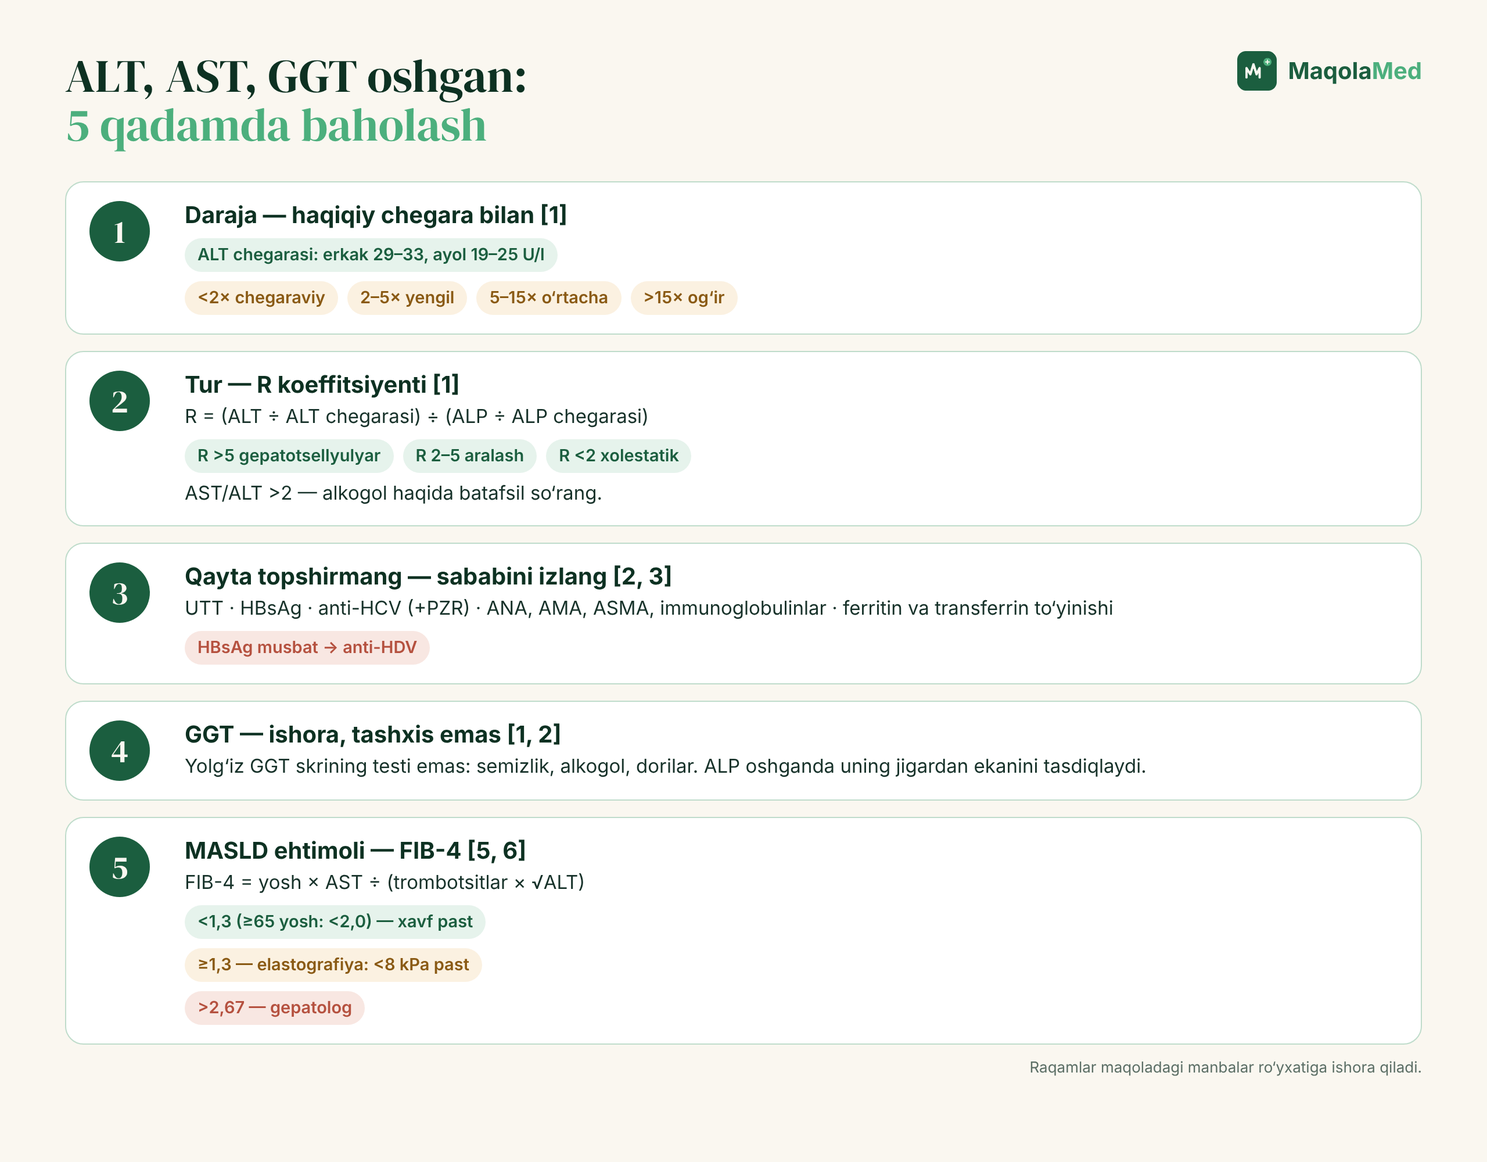
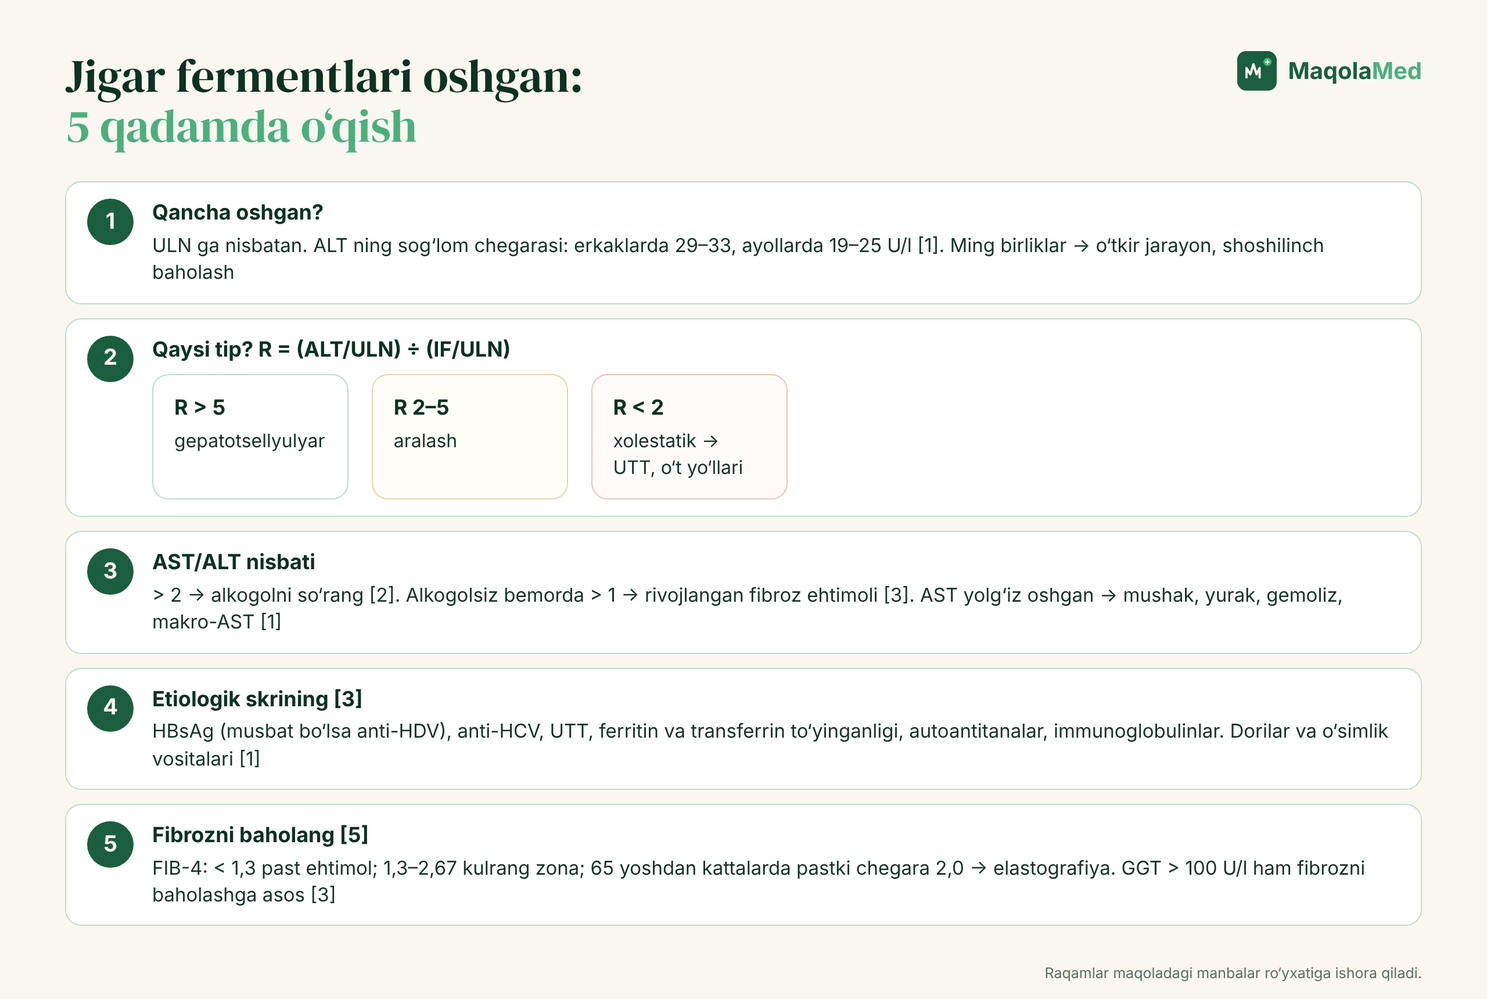
27-noyabr maqolasi qayta yozildi (v2, humanizer): ALT, AST, GGT — muqovalar, 2 rasm

diff --git a/_manba/2026-11-27/muqova-instagram-4x5.html b/_manba/2026-11-27/muqova-instagram-4x5.html
@@ -1,0 +1,84 @@
+<!doctype html>
+<html lang="uz">
+<head>
+<meta charset="utf-8"><base href="file:///home/claude/maqolamed-rasmlar/_shablon/">
+<style>
+@font-face{font-family:"DM Serif Display";src:url("fonts/dm-serif-display-latin-400-normal.woff2") format("woff2");}
+@font-face{font-family:"DM Serif Display";src:url("fonts/dm-serif-display-latin-ext-400-normal.woff2") format("woff2");unicode-range:U+0100-024F,U+1E00-1EFF;}
+:root{
+  --emerald:#1B5E3F; --deep:#0D3122; --cream:#FAF7F0; --mint:#7FC9A0; --green:#4CAF7D;
+}
+*{margin:0;padding:0;box-sizing:border-box}
+html,body{width:1280px;height:720px;overflow:hidden;background:var(--deep)}
+.cover{position:relative;width:1280px;height:720px;overflow:hidden;font-family:"Inter",sans-serif;color:var(--cream);
+  background:
+    radial-gradient(900px 600px at 78% 40%, rgba(76,175,125,.22), transparent 60%),
+    radial-gradient(700px 500px at 0% 100%, rgba(13,49,34,.9), transparent 70%),
+    linear-gradient(135deg,#123F2C 0%, #1B5E3F 55%, #164D34 100%);}
+.grid{position:absolute;inset:0;background-image:
+    linear-gradient(rgba(250,247,240,.035) 1px,transparent 1px),
+    linear-gradient(90deg,rgba(250,247,240,.035) 1px,transparent 1px);
+  background-size:40px 40px;}
+.ekg{position:absolute;left:0;top:300px;width:1280px;height:200px;opacity:.16}
+.left{position:absolute;left:64px;top:52px;width:690px}
+.brand{display:flex;align-items:center;gap:28px}
+.brand img{height:62px;display:block}
+.tag{display:flex;align-items:center;gap:14px;font-size:13px;letter-spacing:.32em;color:rgba(250,247,240,.72);font-weight:500}
+.tag i{width:4px;height:4px;border-radius:50%;background:var(--mint);display:inline-block}
+.tag .line{width:90px;height:1px;background:rgba(250,247,240,.35)}
+.kicker{margin-top:54px;display:inline-flex;align-items:center;gap:10px;font-size:15px;font-weight:600;letter-spacing:.14em;text-transform:uppercase;color:var(--mint)}
+.kicker span{display:inline-block;width:28px;height:2px;background:var(--mint)}
+h1{margin-top:16px;font-family:"DM Serif Display",serif;font-weight:400;font-size:78px;line-height:.98;letter-spacing:-.01em;color:var(--cream)}
+h1 em{font-style:normal;color:var(--mint)}
+.sub{margin-top:22px;font-size:21px;color:rgba(250,247,240,.82);font-weight:400}
+.points{position:absolute;left:64px;bottom:50px;display:flex;gap:0}
+.pt{width:172px;padding-right:18px;display:flex;flex-direction:column;align-items:flex-start;gap:12px}
+.pt + .pt{padding-left:22px;border-left:1px solid rgba(250,247,240,.18)}
+.ic{width:52px;height:52px;border-radius:50%;border:1.6px solid rgba(250,247,240,.75);display:grid;place-items:center}
+.ic svg{width:26px;height:26px;stroke:var(--cream);fill:none;stroke-width:1.7;stroke-linecap:round;stroke-linejoin:round}
+.pt p{font-size:15px;line-height:1.3;color:rgba(250,247,240,.92);font-weight:500}
+.card{position:absolute;right:56px;top:96px;width:400px;border-radius:22px;padding:28px 30px 26px;
+  background:linear-gradient(160deg,rgba(13,49,34,.82),rgba(13,49,34,.62));
+  border:1px solid rgba(127,201,160,.35);box-shadow:0 30px 60px rgba(0,0,0,.35)}
+.card .ch{display:flex;justify-content:space-between;align-items:center}
+.card .lbl{font-size:12px;letter-spacing:.24em;font-weight:600;color:var(--mint)}
+.card .pill{font-size:12px;font-weight:600;padding:5px 10px;border-radius:999px;background:rgba(127,201,160,.16);color:var(--mint)}
+.card h3{margin-top:14px;font-size:22px;font-weight:600}
+.card h3 small{display:block;margin-top:4px;font-size:14px;font-weight:400;color:rgba(250,247,240,.65)}
+.rows{margin-top:18px;border-top:1px solid rgba(250,247,240,.14)}
+.row{display:flex;justify-content:space-between;padding:9px 0;border-bottom:1px solid rgba(250,247,240,.10);font-size:16px}
+.row span:first-child{color:rgba(250,247,240,.68)}
+.row span:last-child{font-weight:600;font-variant-numeric:tabular-nums}
+.row .ok{color:var(--mint)}
+.quote{margin-top:18px;font-family:"DM Serif Display",serif;font-size:21px;line-height:1.25;color:var(--cream)}
+.ask{margin-top:16px;display:flex;align-items:center;justify-content:space-between;padding:13px 16px;border-radius:12px;background:var(--green);color:#0D3122;font-weight:700;font-size:17px}
+.ask svg{width:22px;height:22px;stroke:#0D3122;fill:none;stroke-width:2.2;stroke-linecap:round;stroke-linejoin:round}
+
+html,body{width:1080px;height:1350px}
+.cover{width:1080px;height:1350px}
+.ekg{top:525px;width:1080px}
+.left{left:72px;top:64px;width:940px}
+.brand img{height:72px}
+h1{font-size:96px;margin-top:18px}
+.kicker{margin-top:56px;font-size:17px}
+.sub{font-size:24px}
+.card{left:72px;right:72px;top:auto;bottom:250px;width:auto;padding:30px 34px}
+.rows{display:grid;grid-template-columns:1fr 1fr;column-gap:40px}
+.quote{font-size:24px}
+.points{left:72px;right:72px;bottom:60px}
+.pt{width:auto;flex:1}
+.pt p{font-size:17px}
+
+</style>
+</head>
+<body><div class="cover"><div class="grid"></div>
+<svg class="ekg" viewBox="0 0 1280 200" preserveAspectRatio="none"><polyline fill="none" stroke="#7FC9A0" stroke-width="3" stroke-linejoin="round" stroke-linecap="round" points="0,120 640,120 670,120 690,98 710,120 750,120 770,40 795,175 820,120 880,120 905,102 930,120 1280,120"/></svg>
+<div class="left"><div class="brand"><img src="logo_dark_bg.png" alt="MaqolaMed"></div>
+<div class="tag" style="margin-top:22px"><span>ILM</span><i></i><span>AMALIYOT</span><i></i><span>ODAM UCHUN</span><span class="line"></span></div>
+<div class="kicker"><span></span>Tahlil o‘qish · Gastroenterologiya</div>
+<h1>ALT, AST, GGT<br>oshgan:<br><em>qanday o‘qiymiz?</em></h1>
+<div class="sub">Daraja, tip, nisbat va sabab: 5 qadamda.</div></div>
+<div class="points"><div class="pt"><div class="ic"><svg viewBox="0 0 24 24"><path d="M4 20V4"/><path d="M4 20h16"/><path d="M8 16l4-5 3 3 5-7"/></svg></div><p>Me’yor qayerda tugaydi?</p></div><div class="pt"><div class="ic"><svg viewBox="0 0 24 24"><circle cx="12" cy="12" r="9"/><path d="M9.5 9.5a2.5 2.5 0 1 1 3.5 2.3c-.7.3-1 .8-1 1.5v.7"/><path d="M12 17v.5"/></svg></div><p>R koeffitsiyenti nima beradi?</p></div><div class="pt"><div class="ic"><svg viewBox="0 0 24 24"><path d="M9 3h6"/><path d="M10 3v12.5a2 2 0 0 0 4 0V3"/><path d="M10 10h4"/><path d="M5 21h14"/></svg></div><p>GGT yolg‘iz nimani aytadi?</p></div><div class="pt"><div class="ic"><svg viewBox="0 0 24 24"><path d="M3 10c0-3 3-5 8-5h7c2 0 3 1.5 3 3 0 4-6 11-11 11-4 0-7-4-7-9z"/></svg></div><p>Fibrozni qanday baholaymiz?</p></div></div>
+<div class="card"><div class="ch"><span class="lbl">TAHLIL</span><span class="pill">5 qadam</span></div>
+<h3>Jigar fermentlari<small>ACG, BSG va EASL bo‘yicha</small></h3><div class="rows"><div class="row"><span>ALT sog‘lom chegarasi</span><span class="ok">♂ 29–33 · ♀ 19–25</span></div><div class="row"><span>R &gt; 5</span><span class="">gepatotsellyulyar</span></div><div class="row"><span>R &lt; 2</span><span class="">xolestatik</span></div><div class="row"><span>AST/ALT &gt; 2</span><span class="">alkogolni so‘rang</span></div><div class="row"><span>GGT &gt; 100 U/l</span><span class="ok">fibrozni baholang</span></div><div class="row"><span>FIB-4 &lt; 1,3</span><span class="ok">fibroz ehtimoli past</span></div></div><div class="ask">Gepatoprotektor yozasizmi?<svg viewBox="0 0 24 24"><path d="M5 12h14"/><path d="M13 6l6 6-6 6"/></svg></div></div>
+</div></body></html>

diff --git a/_manba/2026-11-27/muqova-16x9.html b/_manba/2026-11-27/muqova-16x9.html
@@ -1,0 +1,69 @@
+<!doctype html>
+<html lang="uz">
+<head>
+<meta charset="utf-8"><base href="file:///home/claude/maqolamed-rasmlar/_shablon/">
+<style>
+@font-face{font-family:"DM Serif Display";src:url("fonts/dm-serif-display-latin-400-normal.woff2") format("woff2");}
+@font-face{font-family:"DM Serif Display";src:url("fonts/dm-serif-display-latin-ext-400-normal.woff2") format("woff2");unicode-range:U+0100-024F,U+1E00-1EFF;}
+:root{
+  --emerald:#1B5E3F; --deep:#0D3122; --cream:#FAF7F0; --mint:#7FC9A0; --green:#4CAF7D;
+}
+*{margin:0;padding:0;box-sizing:border-box}
+html,body{width:1280px;height:720px;overflow:hidden;background:var(--deep)}
+.cover{position:relative;width:1280px;height:720px;overflow:hidden;font-family:"Inter",sans-serif;color:var(--cream);
+  background:
+    radial-gradient(900px 600px at 78% 40%, rgba(76,175,125,.22), transparent 60%),
+    radial-gradient(700px 500px at 0% 100%, rgba(13,49,34,.9), transparent 70%),
+    linear-gradient(135deg,#123F2C 0%, #1B5E3F 55%, #164D34 100%);}
+.grid{position:absolute;inset:0;background-image:
+    linear-gradient(rgba(250,247,240,.035) 1px,transparent 1px),
+    linear-gradient(90deg,rgba(250,247,240,.035) 1px,transparent 1px);
+  background-size:40px 40px;}
+.ekg{position:absolute;left:0;top:300px;width:1280px;height:200px;opacity:.16}
+.left{position:absolute;left:64px;top:52px;width:690px}
+.brand{display:flex;align-items:center;gap:28px}
+.brand img{height:62px;display:block}
+.tag{display:flex;align-items:center;gap:14px;font-size:13px;letter-spacing:.32em;color:rgba(250,247,240,.72);font-weight:500}
+.tag i{width:4px;height:4px;border-radius:50%;background:var(--mint);display:inline-block}
+.tag .line{width:90px;height:1px;background:rgba(250,247,240,.35)}
+.kicker{margin-top:54px;display:inline-flex;align-items:center;gap:10px;font-size:15px;font-weight:600;letter-spacing:.14em;text-transform:uppercase;color:var(--mint)}
+.kicker span{display:inline-block;width:28px;height:2px;background:var(--mint)}
+h1{margin-top:16px;font-family:"DM Serif Display",serif;font-weight:400;font-size:78px;line-height:.98;letter-spacing:-.01em;color:var(--cream)}
+h1 em{font-style:normal;color:var(--mint)}
+.sub{margin-top:22px;font-size:21px;color:rgba(250,247,240,.82);font-weight:400}
+.points{position:absolute;left:64px;bottom:50px;display:flex;gap:0}
+.pt{width:172px;padding-right:18px;display:flex;flex-direction:column;align-items:flex-start;gap:12px}
+.pt + .pt{padding-left:22px;border-left:1px solid rgba(250,247,240,.18)}
+.ic{width:52px;height:52px;border-radius:50%;border:1.6px solid rgba(250,247,240,.75);display:grid;place-items:center}
+.ic svg{width:26px;height:26px;stroke:var(--cream);fill:none;stroke-width:1.7;stroke-linecap:round;stroke-linejoin:round}
+.pt p{font-size:15px;line-height:1.3;color:rgba(250,247,240,.92);font-weight:500}
+.card{position:absolute;right:56px;top:96px;width:400px;border-radius:22px;padding:28px 30px 26px;
+  background:linear-gradient(160deg,rgba(13,49,34,.82),rgba(13,49,34,.62));
+  border:1px solid rgba(127,201,160,.35);box-shadow:0 30px 60px rgba(0,0,0,.35)}
+.card .ch{display:flex;justify-content:space-between;align-items:center}
+.card .lbl{font-size:12px;letter-spacing:.24em;font-weight:600;color:var(--mint)}
+.card .pill{font-size:12px;font-weight:600;padding:5px 10px;border-radius:999px;background:rgba(127,201,160,.16);color:var(--mint)}
+.card h3{margin-top:14px;font-size:22px;font-weight:600}
+.card h3 small{display:block;margin-top:4px;font-size:14px;font-weight:400;color:rgba(250,247,240,.65)}
+.rows{margin-top:18px;border-top:1px solid rgba(250,247,240,.14)}
+.row{display:flex;justify-content:space-between;padding:9px 0;border-bottom:1px solid rgba(250,247,240,.10);font-size:16px}
+.row span:first-child{color:rgba(250,247,240,.68)}
+.row span:last-child{font-weight:600;font-variant-numeric:tabular-nums}
+.row .ok{color:var(--mint)}
+.quote{margin-top:18px;font-family:"DM Serif Display",serif;font-size:21px;line-height:1.25;color:var(--cream)}
+.ask{margin-top:16px;display:flex;align-items:center;justify-content:space-between;padding:13px 16px;border-radius:12px;background:var(--green);color:#0D3122;font-weight:700;font-size:17px}
+.ask svg{width:22px;height:22px;stroke:#0D3122;fill:none;stroke-width:2.2;stroke-linecap:round;stroke-linejoin:round}
+
+</style>
+</head>
+<body><div class="cover"><div class="grid"></div>
+<svg class="ekg" viewBox="0 0 1280 200" preserveAspectRatio="none"><polyline fill="none" stroke="#7FC9A0" stroke-width="3" stroke-linejoin="round" stroke-linecap="round" points="0,120 640,120 670,120 690,98 710,120 750,120 770,40 795,175 820,120 880,120 905,102 930,120 1280,120"/></svg>
+<div class="left"><div class="brand"><img src="logo_dark_bg.png" alt="MaqolaMed"></div>
+<div class="tag" style="margin-top:22px"><span>ILM</span><i></i><span>AMALIYOT</span><i></i><span>ODAM UCHUN</span><span class="line"></span></div>
+<div class="kicker"><span></span>Tahlil o‘qish · Gastroenterologiya</div>
+<h1>ALT, AST, GGT<br>oshgan:<br><em>qanday o‘qiymiz?</em></h1>
+<div class="sub">Daraja, tip, nisbat va sabab: 5 qadamda.</div></div>
+<div class="points"><div class="pt"><div class="ic"><svg viewBox="0 0 24 24"><path d="M4 20V4"/><path d="M4 20h16"/><path d="M8 16l4-5 3 3 5-7"/></svg></div><p>Me’yor qayerda tugaydi?</p></div><div class="pt"><div class="ic"><svg viewBox="0 0 24 24"><circle cx="12" cy="12" r="9"/><path d="M9.5 9.5a2.5 2.5 0 1 1 3.5 2.3c-.7.3-1 .8-1 1.5v.7"/><path d="M12 17v.5"/></svg></div><p>R koeffitsiyenti nima beradi?</p></div><div class="pt"><div class="ic"><svg viewBox="0 0 24 24"><path d="M9 3h6"/><path d="M10 3v12.5a2 2 0 0 0 4 0V3"/><path d="M10 10h4"/><path d="M5 21h14"/></svg></div><p>GGT yolg‘iz nimani aytadi?</p></div><div class="pt"><div class="ic"><svg viewBox="0 0 24 24"><path d="M3 10c0-3 3-5 8-5h7c2 0 3 1.5 3 3 0 4-6 11-11 11-4 0-7-4-7-9z"/></svg></div><p>Fibrozni qanday baholaymiz?</p></div></div>
+<div class="card"><div class="ch"><span class="lbl">TAHLIL</span><span class="pill">5 qadam</span></div>
+<h3>Jigar fermentlari<small>ACG, BSG va EASL bo‘yicha</small></h3><div class="rows"><div class="row"><span>ALT sog‘lom chegarasi</span><span class="ok">♂ 29–33 · ♀ 19–25</span></div><div class="row"><span>R &gt; 5</span><span class="">gepatotsellyulyar</span></div><div class="row"><span>R &lt; 2</span><span class="">xolestatik</span></div><div class="row"><span>AST/ALT &gt; 2</span><span class="">alkogolni so‘rang</span></div><div class="row"><span>GGT &gt; 100 U/l</span><span class="ok">fibrozni baholang</span></div><div class="row"><span>FIB-4 &lt; 1,3</span><span class="ok">fibroz ehtimoli past</span></div></div><div class="ask">Gepatoprotektor yozasizmi?<svg viewBox="0 0 24 24"><path d="M5 12h14"/><path d="M13 6l6 6-6 6"/></svg></div></div>
+</div></body></html>

diff --git a/_manba/2026-11-27/1-rasm.html b/_manba/2026-11-27/1-rasm.html
@@ -1,0 +1,43 @@
+<!doctype html><html lang="uz"><head><meta charset="utf-8"><base href="file:///home/claude/maqolamed-rasmlar/_shablon/"><style>
+@font-face{font-family:"DM Serif Display";src:url("fonts/dm-serif-display-latin-400-normal.woff2") format("woff2");}
+@font-face{font-family:"DM Serif Display";src:url("fonts/dm-serif-display-latin-ext-400-normal.woff2") format("woff2");unicode-range:U+0100-024F,U+1E00-1EFF;}
+:root{--emerald:#1B5E3F;--deep:#0D3122;--cream:#FAF7F0;--mint:#7FC9A0;--green:#4CAF7D;--ink:#17322A;--muted:#5C6F66;--amber:#C98A2E;--amberbg:#FBF1E1;--red:#B5513F;--redbg:#F8E7E2}
+*{margin:0;padding:0;box-sizing:border-box}
+html,body{width:1280px;height:860px;background:var(--cream);overflow:hidden}
+.fig{position:relative;width:1280px;height:860px;padding:44px 56px;font-family:"Inter",sans-serif;color:var(--ink)}
+.top{display:flex;justify-content:space-between;align-items:flex-start;margin-bottom:26px}
+h1{font-family:"DM Serif Display",serif;font-weight:400;font-size:40px;line-height:1.08;color:var(--deep)}
+h1 em{font-style:normal;color:var(--green)}
+.brand{display:flex;align-items:center;gap:10px;font-weight:700;font-size:20px;color:var(--emerald);white-space:nowrap}
+.brand img{height:34px}.brand b{color:var(--green);font-weight:700}
+table{width:100%;border-collapse:separate;border-spacing:0;font-size:17px;line-height:1.35;background:#fff;border-radius:14px;overflow:hidden;border:1.5px solid #BFDCCB}
+th{background:var(--emerald);color:var(--cream);text-align:left;padding:13px 16px;font-size:16px;font-weight:600}
+td{padding:12px 16px;border-top:1px solid #E3EDE7;vertical-align:top}
+td:first-child{font-weight:600;color:var(--deep);width:24%}
+tr:nth-child(even) td{background:#F6FAF7}
+.good{color:var(--emerald);font-weight:600}.bad{color:var(--red);font-weight:600}.mid{color:#8A5A14;font-weight:600}
+.row3{display:flex;gap:20px}
+.box{flex:1;border-radius:14px;padding:16px 18px;font-size:16px;line-height:1.42;background:#fff;border:1.5px solid #BFDCCB}
+.box b.t{display:block;font-size:18px;margin-bottom:6px;color:var(--deep)}
+.box.g{border-color:#BFDCCB}.box.a{border-color:#EBD3A9;background:#FFFDF8}.box.r{border-color:#E8C3BA;background:#FFFBFA}
+.box.dark{background:var(--emerald);color:var(--cream);border:none}.box.dark b.t{color:var(--cream)}
+.step{display:flex;gap:16px;align-items:flex-start;background:#fff;border:1.5px solid #BFDCCB;border-radius:14px;padding:14px 18px;margin-bottom:12px;font-size:16.5px;line-height:1.42}
+.num{flex:none;width:40px;height:40px;border-radius:50%;background:var(--emerald);color:var(--cream);display:grid;place-items:center;font-weight:700;font-size:19px}
+.step b.t{display:block;font-size:18px;color:var(--deep);margin-bottom:3px}
+.tag{display:inline-block;font-size:12.5px;font-weight:700;letter-spacing:.1em;text-transform:uppercase;padding:5px 11px;border-radius:999px;margin-bottom:10px}
+.tg{background:#DDEFE5;color:var(--emerald)}.ta{background:var(--amberbg);color:#8A5A14}.tr{background:var(--redbg);color:var(--red)}
+.note{margin-top:18px;padding:14px 18px;border-radius:12px;background:#EEF2EE;font-size:15.5px;line-height:1.42}
+.note b{color:var(--deep)}
+.src{position:absolute;right:56px;bottom:14px;font-size:12.5px;color:var(--muted)}
+ul.l{margin:6px 0 0 18px}ul.l li{margin:3px 0}
+</style></head><body><div class="fig">
+<div class="top"><h1>Jigar fermentlari oshgan:<br><em>5 qadamda o‘qish</em></h1><div class="brand"><img src="icon.png" alt=""><span>Maqola<b>Med</b></span></div></div>
+
+<div class="step"><div class="num">1</div><div><b class="t">Qancha oshgan?</b>ULN ga nisbatan. ALT ning sog‘lom chegarasi: erkaklarda 29–33, ayollarda 19–25 U/l [1]. Ming birliklar → o‘tkir jarayon, shoshilinch baholash</div></div>
+<div class="step"><div class="num">2</div><div><b class="t">Qaysi tip? R = (ALT/ULN) ÷ (IF/ULN)</b>
+<div class="row3" style="margin-top:8px"><div class="box g"><b class="t">R &gt; 5</b>gepatotsellyulyar</div><div class="box a"><b class="t">R 2–5</b>aralash</div><div class="box r"><b class="t">R &lt; 2</b>xolestatik → UTT, o‘t yo‘llari</div></div></div></div>
+<div class="step"><div class="num">3</div><div><b class="t">AST/ALT nisbati</b>&gt; 2 → alkogolni so‘rang [2]. Alkogolsiz bemorda &gt; 1 → rivojlangan fibroz ehtimoli [3]. AST yolg‘iz oshgan → mushak, yurak, gemoliz, makro-AST [1]</div></div>
+<div class="step"><div class="num">4</div><div><b class="t">Etiologik skrining [3]</b>HBsAg (musbat bo‘lsa anti-HDV), anti-HCV, UTT, ferritin va transferrin to‘yinganligi, autoantitanalar, immunoglobulinlar. Dorilar va o‘simlik vositalari [1]</div></div>
+<div class="step"><div class="num">5</div><div><b class="t">Fibrozni baholang [5]</b>FIB-4: &lt; 1,3 past ehtimol; 1,3–2,67 kulrang zona; 65 yoshdan kattalarda pastki chegara 2,0 → elastografiya. GGT &gt; 100 U/l ham fibrozni baholashga asos [3]</div></div>
+
+<div class="src">Raqamlar maqoladagi manbalar ro‘yxatiga ishora qiladi.</div></div></body></html>

diff --git a/_manba/2026-11-27/2-rasm.html b/_manba/2026-11-27/2-rasm.html
@@ -1,0 +1,49 @@
+<!doctype html><html lang="uz"><head><meta charset="utf-8"><base href="file:///home/claude/maqolamed-rasmlar/_shablon/"><style>
+@font-face{font-family:"DM Serif Display";src:url("fonts/dm-serif-display-latin-400-normal.woff2") format("woff2");}
+@font-face{font-family:"DM Serif Display";src:url("fonts/dm-serif-display-latin-ext-400-normal.woff2") format("woff2");unicode-range:U+0100-024F,U+1E00-1EFF;}
+:root{--emerald:#1B5E3F;--deep:#0D3122;--cream:#FAF7F0;--mint:#7FC9A0;--green:#4CAF7D;--ink:#17322A;--muted:#5C6F66;--amber:#C98A2E;--amberbg:#FBF1E1;--red:#B5513F;--redbg:#F8E7E2}
+*{margin:0;padding:0;box-sizing:border-box}
+html,body{width:1280px;height:860px;background:var(--cream);overflow:hidden}
+.fig{position:relative;width:1280px;height:860px;padding:44px 56px;font-family:"Inter",sans-serif;color:var(--ink)}
+.top{display:flex;justify-content:space-between;align-items:flex-start;margin-bottom:26px}
+h1{font-family:"DM Serif Display",serif;font-weight:400;font-size:40px;line-height:1.08;color:var(--deep)}
+h1 em{font-style:normal;color:var(--green)}
+.brand{display:flex;align-items:center;gap:10px;font-weight:700;font-size:20px;color:var(--emerald);white-space:nowrap}
+.brand img{height:34px}.brand b{color:var(--green);font-weight:700}
+table{width:100%;border-collapse:separate;border-spacing:0;font-size:17px;line-height:1.35;background:#fff;border-radius:14px;overflow:hidden;border:1.5px solid #BFDCCB}
+th{background:var(--emerald);color:var(--cream);text-align:left;padding:13px 16px;font-size:16px;font-weight:600}
+td{padding:12px 16px;border-top:1px solid #E3EDE7;vertical-align:top}
+td:first-child{font-weight:600;color:var(--deep);width:24%}
+tr:nth-child(even) td{background:#F6FAF7}
+.good{color:var(--emerald);font-weight:600}.bad{color:var(--red);font-weight:600}.mid{color:#8A5A14;font-weight:600}
+.row3{display:flex;gap:20px}
+.box{flex:1;border-radius:14px;padding:16px 18px;font-size:16px;line-height:1.42;background:#fff;border:1.5px solid #BFDCCB}
+.box b.t{display:block;font-size:18px;margin-bottom:6px;color:var(--deep)}
+.box.g{border-color:#BFDCCB}.box.a{border-color:#EBD3A9;background:#FFFDF8}.box.r{border-color:#E8C3BA;background:#FFFBFA}
+.box.dark{background:var(--emerald);color:var(--cream);border:none}.box.dark b.t{color:var(--cream)}
+.step{display:flex;gap:16px;align-items:flex-start;background:#fff;border:1.5px solid #BFDCCB;border-radius:14px;padding:14px 18px;margin-bottom:12px;font-size:16.5px;line-height:1.42}
+.num{flex:none;width:40px;height:40px;border-radius:50%;background:var(--emerald);color:var(--cream);display:grid;place-items:center;font-weight:700;font-size:19px}
+.step b.t{display:block;font-size:18px;color:var(--deep);margin-bottom:3px}
+.tag{display:inline-block;font-size:12.5px;font-weight:700;letter-spacing:.1em;text-transform:uppercase;padding:5px 11px;border-radius:999px;margin-bottom:10px}
+.tg{background:#DDEFE5;color:var(--emerald)}.ta{background:var(--amberbg);color:#8A5A14}.tr{background:var(--redbg);color:var(--red)}
+.note{margin-top:18px;padding:14px 18px;border-radius:12px;background:#EEF2EE;font-size:15.5px;line-height:1.42}
+.note b{color:var(--deep)}
+.src{position:absolute;right:56px;bottom:14px;font-size:12.5px;color:var(--muted)}
+ul.l{margin:6px 0 0 18px}ul.l li{margin:3px 0}
+</style></head><body><div class="fig">
+<div class="top"><h1>Oshish darajasi va turi:<br><em>ehtimoliy sabablar</em></h1><div class="brand"><img src="icon.png" alt=""><span>Maqola<b>Med</b></span></div></div>
+
+<table>
+<tr><th>Topilma</th><th>Mezon</th><th>Nima haqida o‘ylaymiz</th></tr>
+<tr><td>Chegaraviy va yengil</td><td>&lt; 2 ULN va 2–5 ULN [1]</td><td>Surunkali: MASLD, alkogol, surunkali B, C, D gepatit, dorilar</td></tr>
+<tr><td>O‘rtacha va og‘ir</td><td>5–15 ULN va &gt; 15 ULN [1]</td><td>O‘tkir virusli, toksik yoki autoimmun gepatit</td></tr>
+<tr><td>Juda katta</td><td>&gt; 10 000 U/l [1]</td><td class="bad">Ishemik yoki toksik zararlanish: shoshilinch</td></tr>
+<tr><td>AST/ALT &gt; 2</td><td>Alkogolli kasallikda 70%, postnekrotik sirrozda 26% [2]</td><td>Alkogolni so‘raymiz; isbot emas, belgi</td></tr>
+<tr><td>AST/ALT &gt; 1 (alkogolsiz)</td><td>BSG [3]</td><td>Rivojlangan fibroz yoki sirroz</td></tr>
+<tr><td>Faqat AST oshgan</td><td>ALT me’yorda [1]</td><td>Mushak, yurak, gemoliz, qalqonsimon bez, makro-AST</td></tr>
+<tr><td>Faqat GGT oshgan</td><td>Induksiyalanadigan ferment [4]</td><td>Alkogol, fenitoin, fenobarbital, semizlik [3]</td></tr>
+<tr><td>GGT + ishqoriy fosfataza</td><td>Birga oshadi [4]</td><td>Fosfataza jigardan: xolestaz tomon</td></tr>
+</table>
+<div class="note"><b>ULN:</b> me’yorning yuqori chegarasi. <b>IF:</b> ishqoriy fosfataza.</div>
+
+<div class="src">Raqamlar maqoladagi manbalar ro‘yxatiga ishora qiladi.</div></div></body></html>
